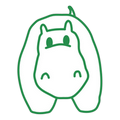
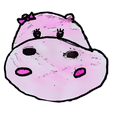
fixed examples fixed README.md

diff --git a/examples/normal-multiple/server.go b/examples/normal-multiple/server.go
@@ -29,6 +29,8 @@ type Server struct {
 
 func (s *Server) Start() error {
 	wg := new(sync.WaitGroup)
+
+	// Server 1
 	wg.Add(1)
 	go func() {
 		defer wg.Done()
@@ -37,6 +39,7 @@ func (s *Server) Start() error {
 		}
 	}()
 
+	// Server 2
 	wg.Add(1)
 	go func() {
 		defer wg.Done()
@@ -45,6 +48,7 @@ func (s *Server) Start() error {
 		}
 	}()
 
+	// Server 3
 	wg.Add(1)
 	go func() {
 		defer wg.Done()

diff --git a/examples/normal/server.go b/examples/normal/server.go
@@ -27,9 +27,10 @@ func (s *NormalServer) Start() error {
 	s.Log.Debug("server has been started")
 
 	for {
-		// Do your job
+		// Do your repetitive jobs
 		s.Log.Info("server is working on it")
 
+		// Intentional error
 		// return errors.New("intentional error")
 
 		select {

diff --git a/examples/normal-http-server/server.go b/examples/normal-http-server/server.go
@@ -40,7 +40,7 @@ func (s *Server) Start() error {
 	}()
 
 	for {
-		// Do your job
+		// Do your repetitive jobs
 		s.Log.Info("server is working on it")
 
 		// Intentional error

diff --git a/README.md b/README.md
@@ -5,7 +5,7 @@ The `hippo` is an easy, fast, lightweight server engine which supports gracefull
 [![Build Status](https://travis-ci.org/devplayg/hippo.svg?branch=master)](https://travis-ci.org/devplayg/hippo)
 [![Go Report Card](https://goreportcard.com/badge/github.com/devplayg/hippo)](https://goreportcard.com/report/github.com/devplayg/hippo)
 
-![Hippo](hippo-v2.png)
+![Hippo](hippo.png)
 
 Import it in your program as:
 
@@ -17,7 +17,7 @@ import "github.com/devplayg/hippo/v2"
 
 ```go
 type SimpleServer struct {
-    hippo.Launcher // DO NOT REMOVE; Launcher links servers and engines each other.
+    hippo.Launcher // DO NOT REMOVE; Launcher links servers and engine each other.
 }
 
 func (s *SimpleServer) Start() error {
@@ -70,16 +70,17 @@ Shutting down the server gracefully
 
 ```go
 type NormalServer struct {
-    hippo.Launcher // DO NOT REMOVE; Launcher links servers and engines each other.
+    hippo.Launcher // DO NOT REMOVE; Launcher links servers and engine each other.
 }
 
 func (s *NormalServer) Start() error {
     s.Log.Debug("server has been started")
 
     for {
-        // Do your job
+        // Do your repetitive jobs
         s.Log.Info("server is working on it")
 
+        // Intentional error
         // return errors.New("intentional error")
 
         select {
@@ -116,7 +117,7 @@ Shutting down the server including HTTP server
 
 ```go
 type Server struct {
-    hippo.Launcher // DO NOT REMOVE; Launcher links servers and engines each other.
+    hippo.Launcher // DO NOT REMOVE; Launcher links servers and engine each other.
 }
 
 func (s *Server) Start() error {
@@ -134,7 +135,7 @@ func (s *Server) Start() error {
     }()
 
     for {
-        // Do your job
+        // Do your repetitive jobs
         s.Log.Info("server is working on it")
 
         // Intentional error
@@ -197,38 +198,42 @@ Shutting down multiple servers gracefully
 
 ```go
 type Server struct {
-    hippo.Launcher // DO NOT REMOVE; Launcher links servers and engines each other.
+    hippo.Launcher // DO NOT REMOVE; Launcher links servers and engine each other.
 }
 
 func (s *Server) Start() error {
-    wg := new(sync.WaitGroup)
-    wg.Add(1)
-    go func() {
-        defer wg.Done()
-        if err := s.startServer1(); err != nil {
-            s.Log.Error(err)
-        }
-    }()
+	wg := new(sync.WaitGroup)
 
-    wg.Add(1)
-    go func() {
-        defer wg.Done()
-        if err := s.startServer2(); err != nil {
-            s.Log.Error(err)
-        }
-    }()
+	// Server 1
+	wg.Add(1)
+	go func() {
+		defer wg.Done()
+		if err := s.startServer1(); err != nil {
+			s.Log.Error(err)
+		}
+	}()
 
-    wg.Add(1)
-    go func() {
-        defer wg.Done()
-        if err := s.startHttpServer(); err != nil {
-            s.Log.Error(err)
-        }
-    }()
+	// Server 2
+	wg.Add(1)
+	go func() {
+		defer wg.Done()
+		if err := s.startServer2(); err != nil {
+			s.Log.Error(err)
+		}
+	}()
 
-    s.Log.Debug("all servers has been started")
-    wg.Wait()
-    return nil
+	// Server 3
+	wg.Add(1)
+	go func() {
+		defer wg.Done()
+		if err := s.startHttpServer(); err != nil {
+			s.Log.Error(err)
+		}
+	}()
+
+	s.Log.Debug("all servers has been started")
+	wg.Wait()
+	return nil
 }
 
 func (s *Server) startServer1() error {
